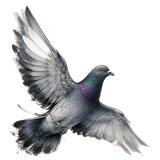
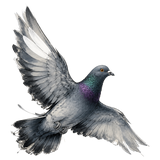
Precise pigeon cut-out: keeps white feathers, removes paper edges
Claude-Session: https://claude.ai/code/session_01VuSMiQ6w3n81gthkzLmyio

diff --git a/index.html b/index.html
@@ -120,7 +120,7 @@ footer .wrap{display:flex;flex-wrap:wrap;gap:10px 20px;justify-content:space-bet
 <body>
 <header class="top"><div class="wrap">
   <a class="brand kufi" href="./">
-    <img src="img/pigeon-160.png" alt="" width="40" height="40" style="width:40px;height:40px">
+    <img src="img/pigeon-160.png?v=2" alt="" width="40" height="40" style="width:40px;height:40px">
     <span class="ar">ياسلام</span><span class="en">Yasalam</span>
   </a>
   <nav class="nav">
@@ -132,7 +132,7 @@ footer .wrap{display:flex;flex-wrap:wrap;gap:10px 20px;justify-content:space-bet
 
 <main>
 <section class="hero"><div class="wrap">
-  <img class="mark" src="img/pigeon.png" alt="حمامة الحرم · Haram pigeon" width="240" height="240">
+  <img class="mark" src="img/pigeon.png?v=2" alt="حمامة الحرم · Haram pigeon" width="240" height="240">
   <h1 class="word kufi"><span class="ar">ياسلام</span><span class="en">Yasalam</span></h1>
   <p class="tagline"><span class="ar">تطبيقات <b>للعقل</b> و<b>القلب</b></span><span class="en">Apps for the <b>mind</b> and the <b>heart</b></span></p>
   <p class="sub"><span class="ar">من المدينة المنورة. كل تطبيق بدأ باحتياج حقيقي في البيت، ثم كبر ليصل لكل بيت.</span><span class="en">Made in Madinah. Every app began with a real need at home, then grew to reach every home.</span></p>
